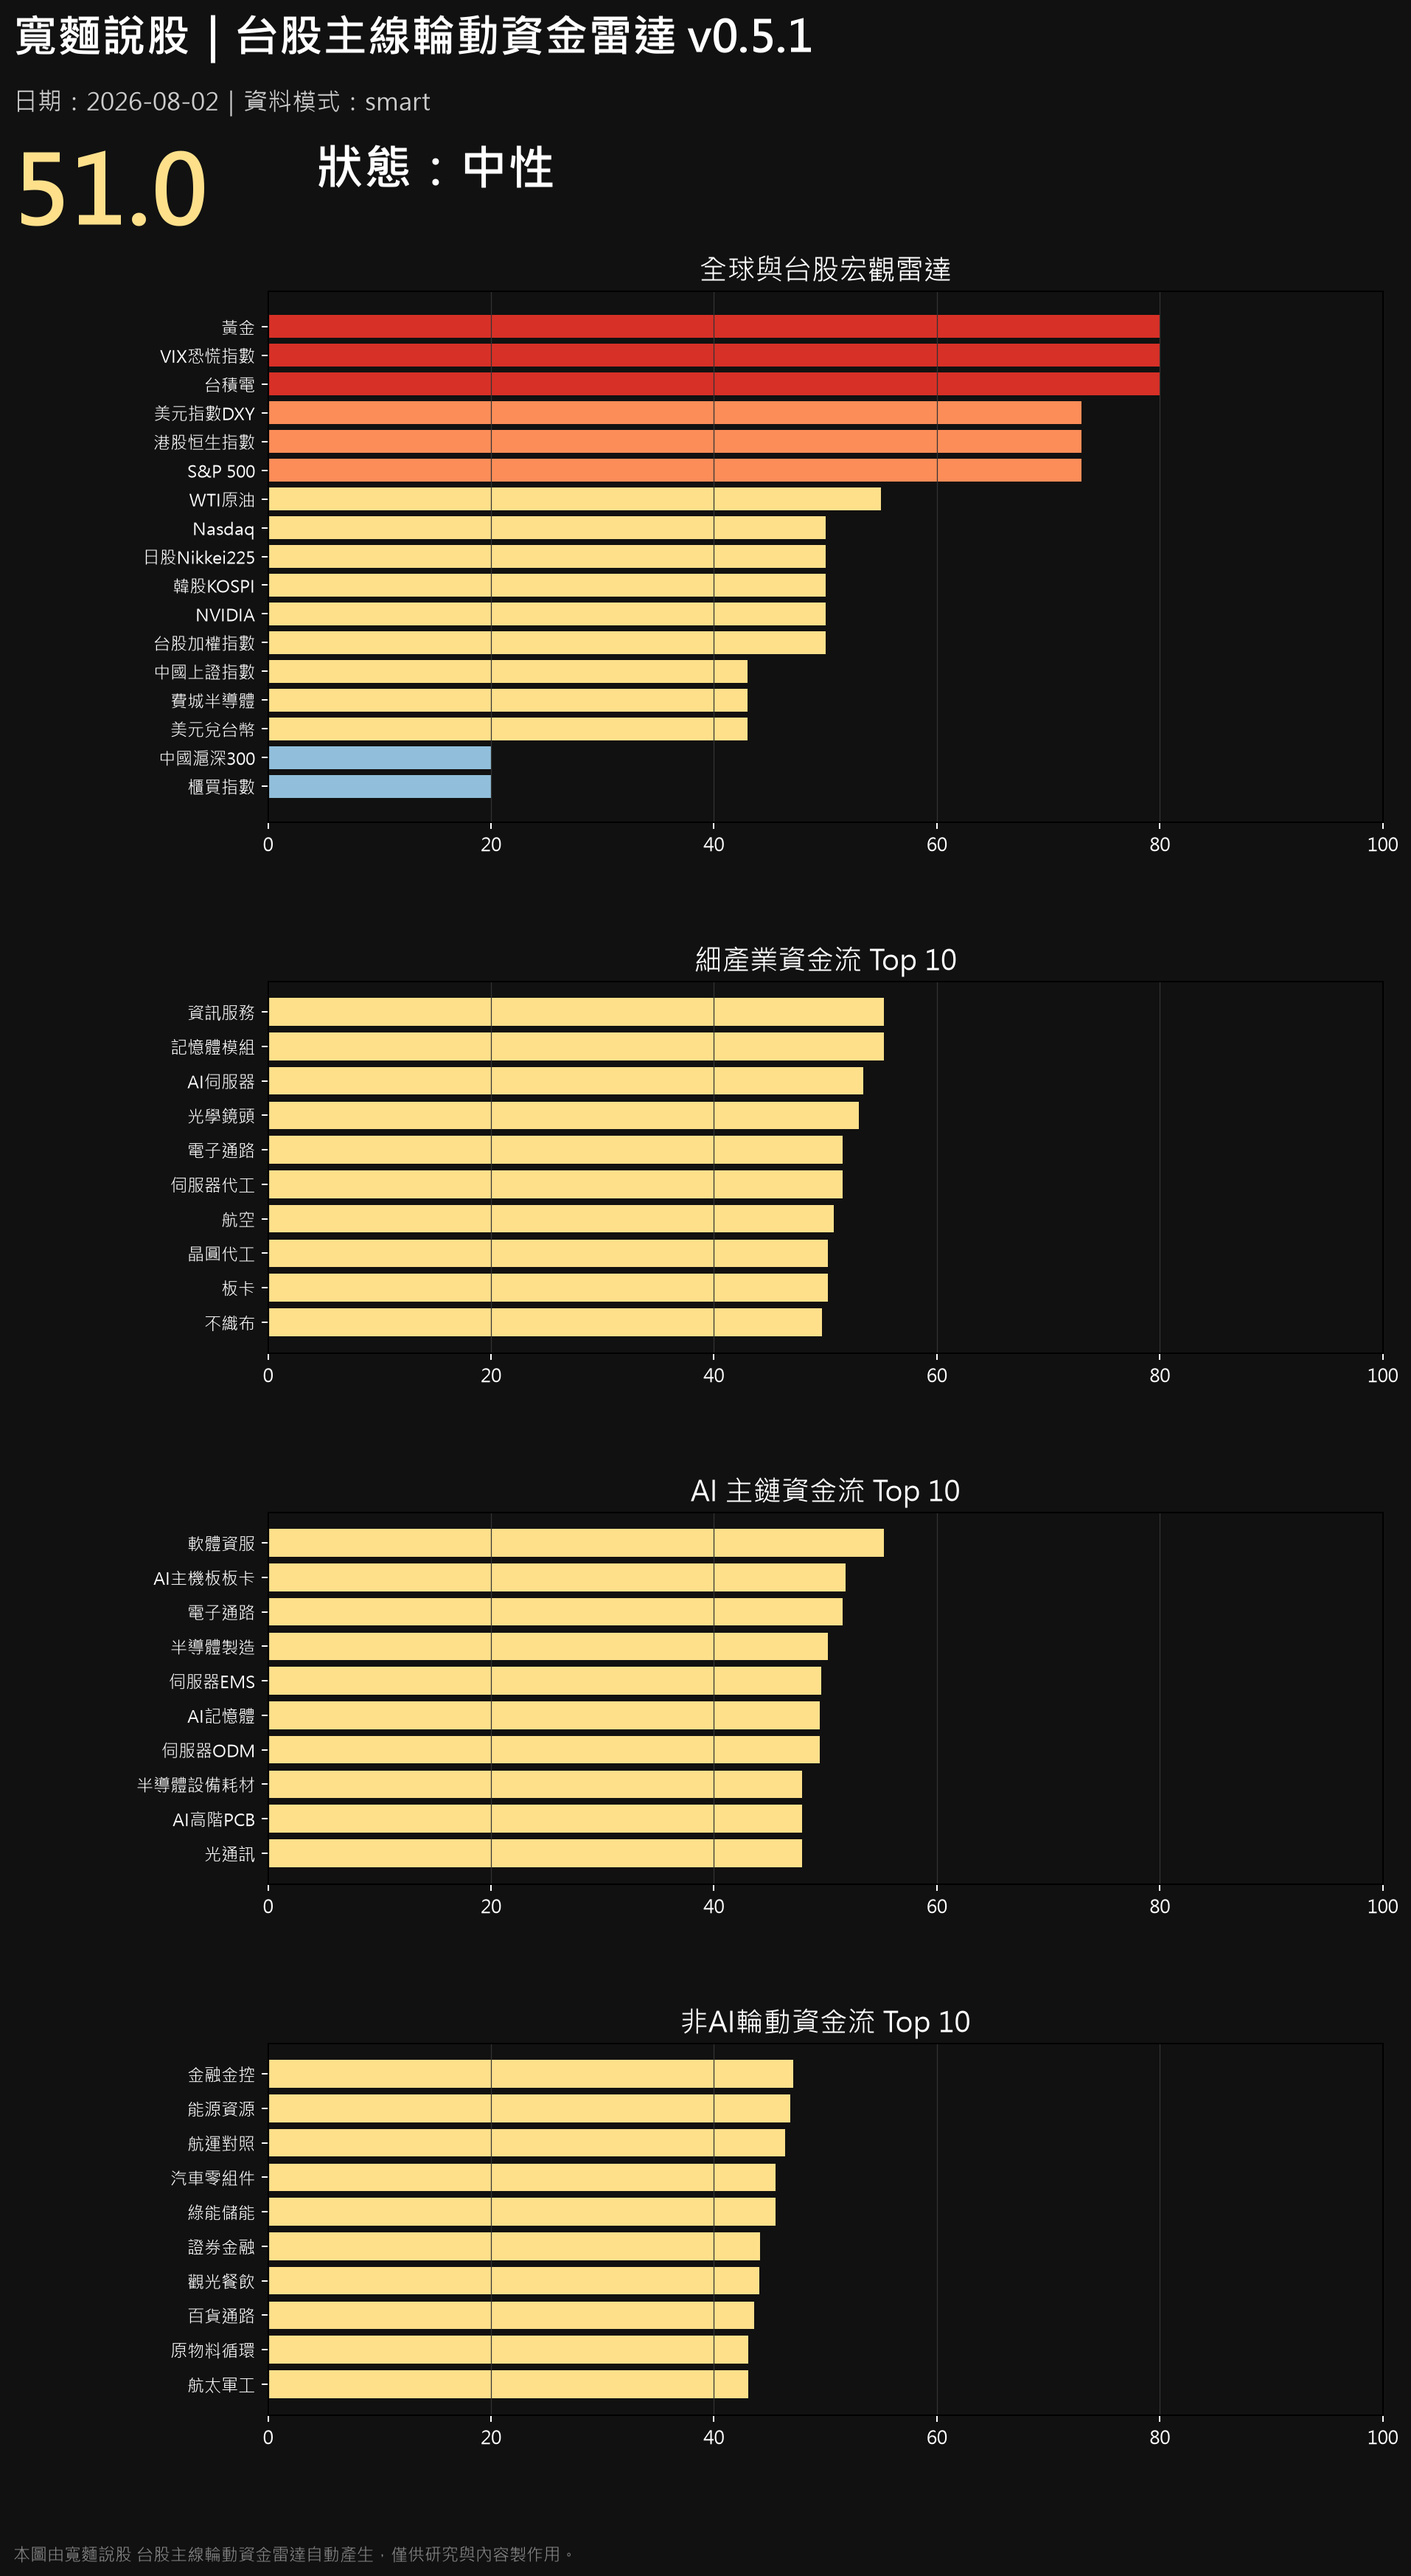
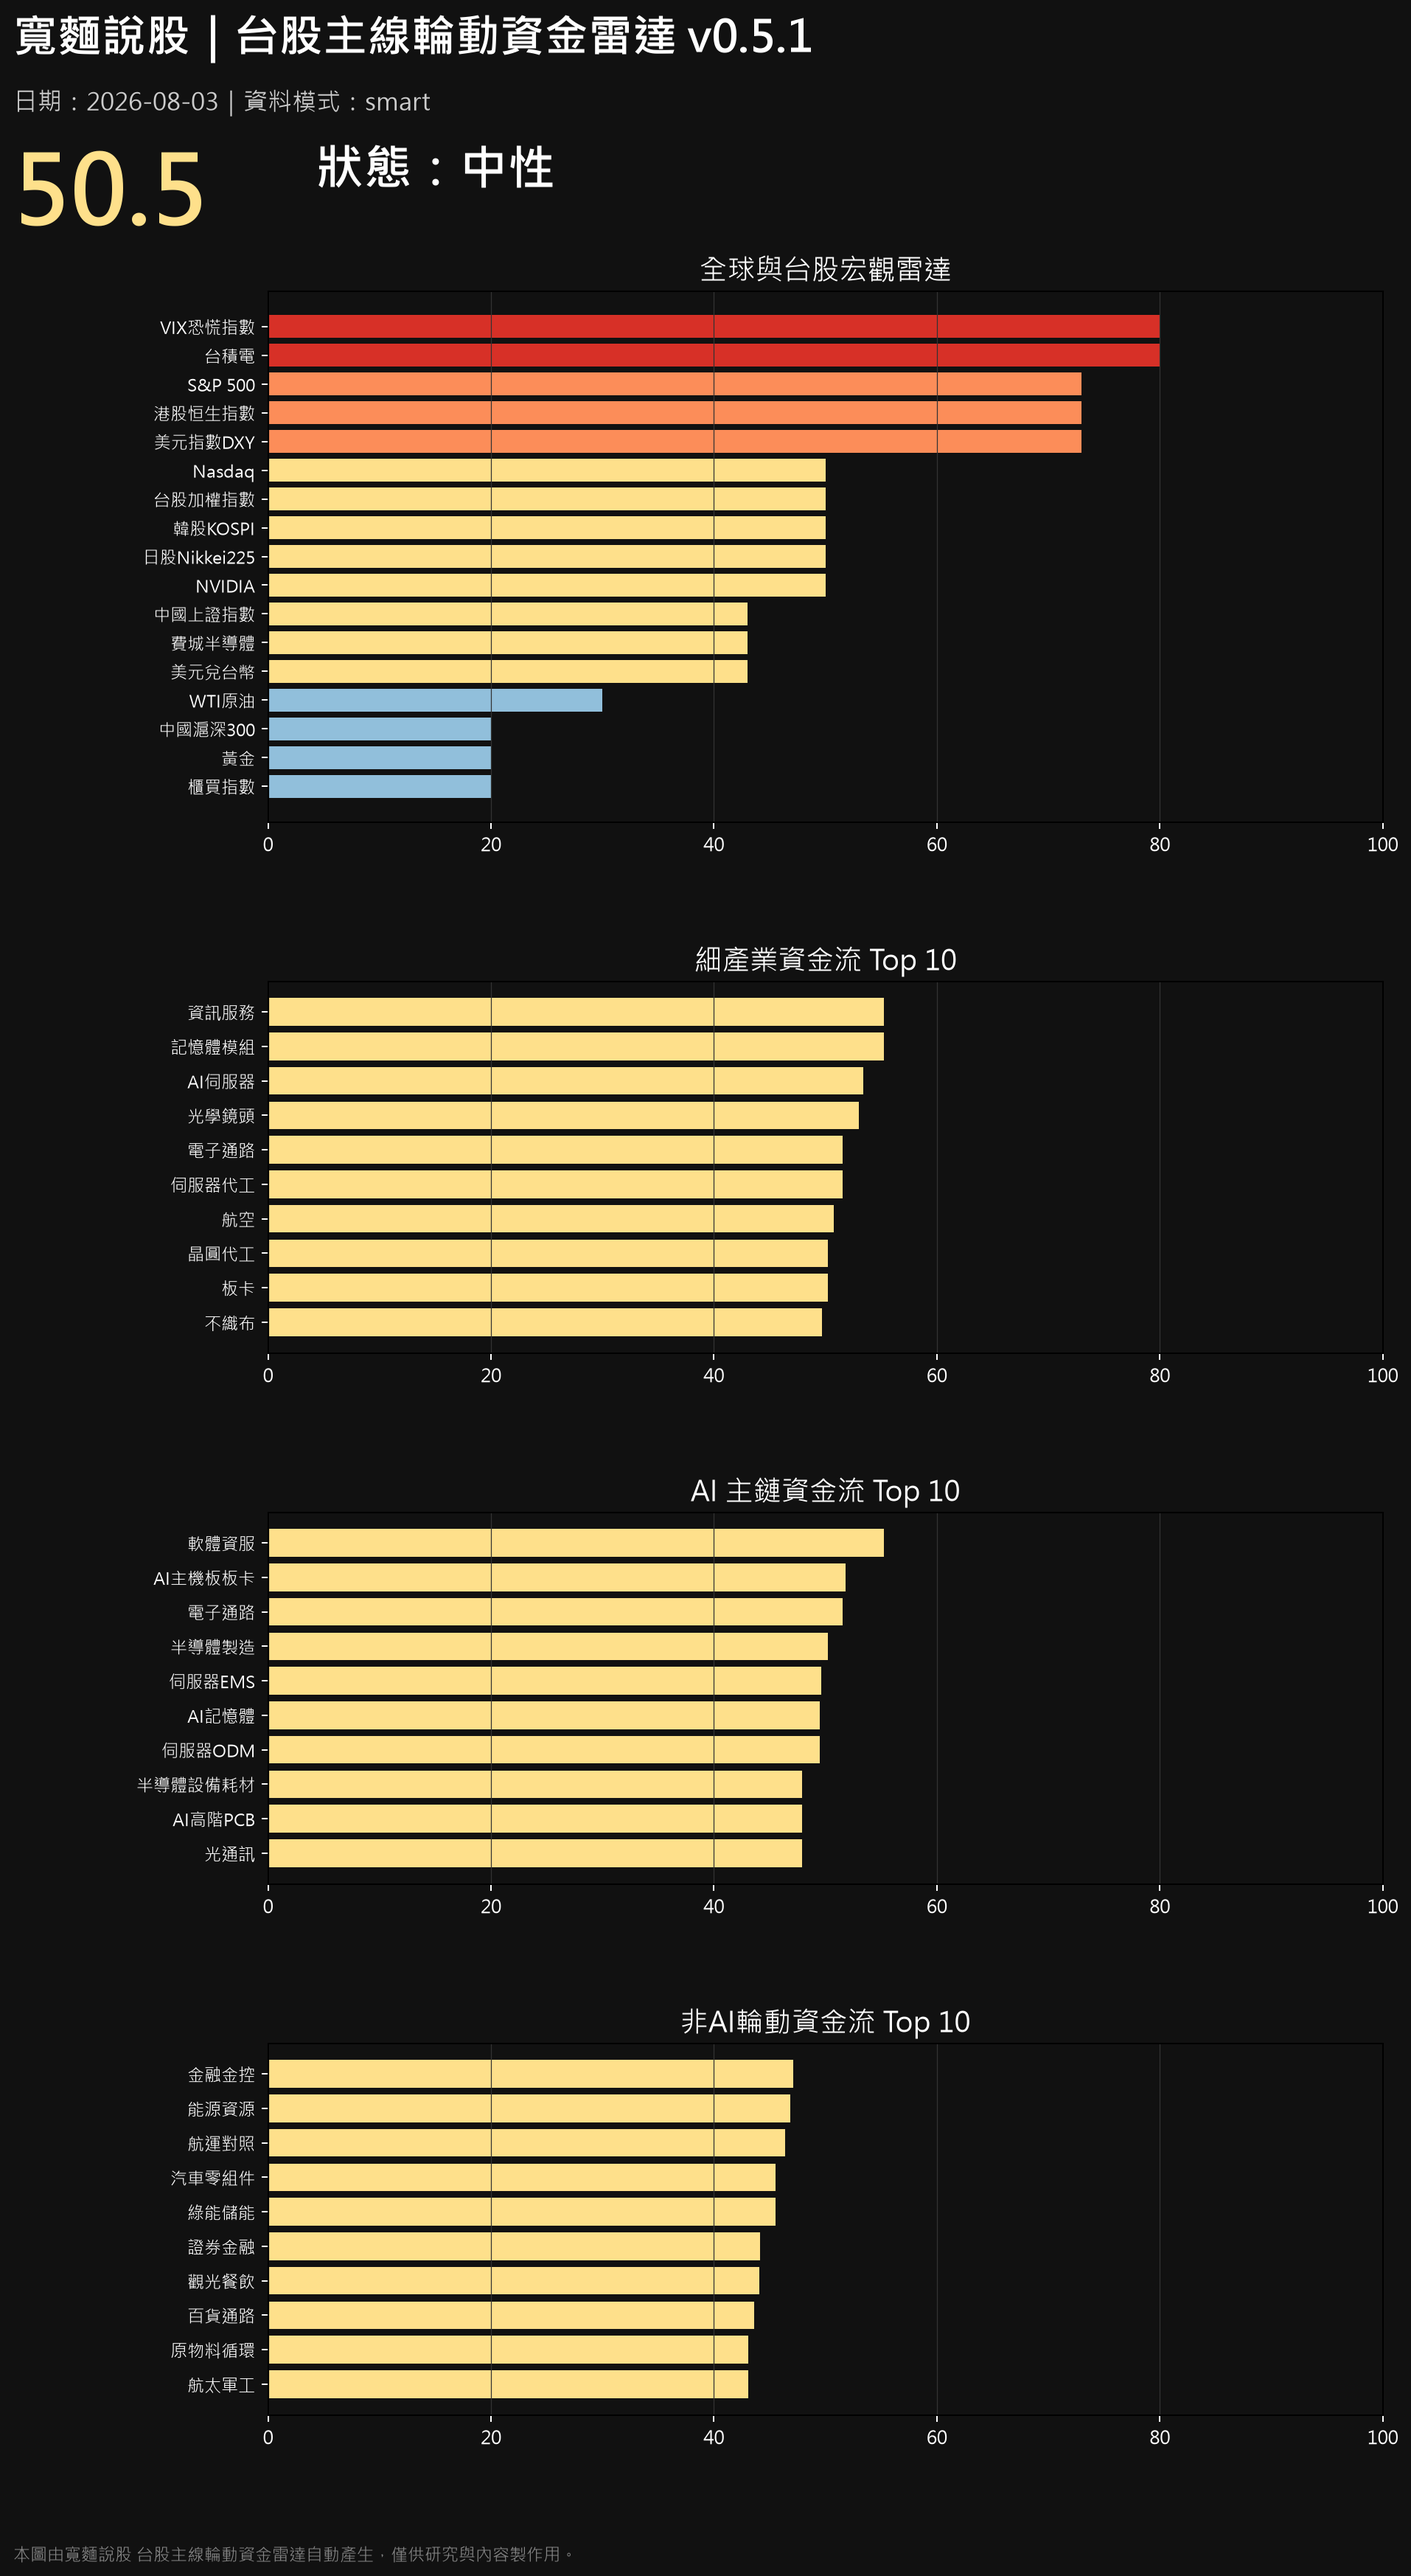
auto update radar chart 週一 2026/08/03  7:28:23.01

Changed region(s): [[0.0925, 0.1248, 0.8323, 0.3121], [0.0308, 0.0624, 0.1541, 0.0936]]

diff --git a/index.html b/index.html
@@ -122,7 +122,7 @@
     <section class="hero">
       <div class="brand">寬麵說股｜股海說書人</div>
       <h1>台股主線輪動資金雷達</h1>
-      <div class="updated">最後更新：2026-08-02 07:28:38</div>
+      <div class="updated">最後更新：2026-08-03 07:28:22</div>
       <div class="notice">
         每日追蹤 AI 主鏈、非AI輪動、宏觀風險與族群資金流。<br>
         本圖卡僅供研究與內容製作用，非投資建議。
@@ -130,11 +130,11 @@
     </section>
 
     <section class="dashboard-wrap">
-      <img class="dashboard" src="dashboard.png?v=20260802" alt="寬麵說股 台股主線輪動資金雷達">
+      <img class="dashboard" src="dashboard.png?v=20260803" alt="寬麵說股 台股主線輪動資金雷達">
     </section>
 
     <div class="actions">
-      <a class="btn" href="dashboard.png?v=20260802" target="_blank">開啟原圖</a>
+      <a class="btn" href="dashboard.png?v=20260803" target="_blank">開啟原圖</a>
     </div>
 
     <div class="footer">
